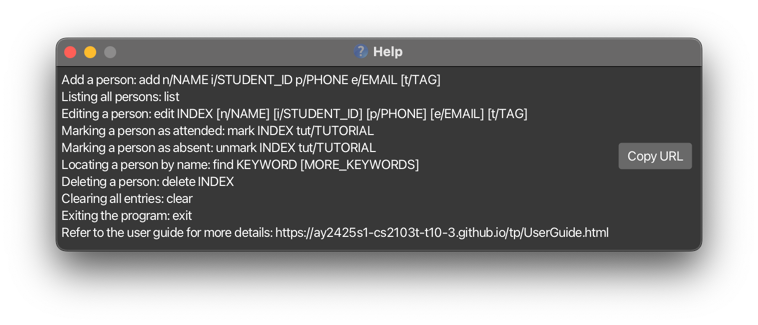
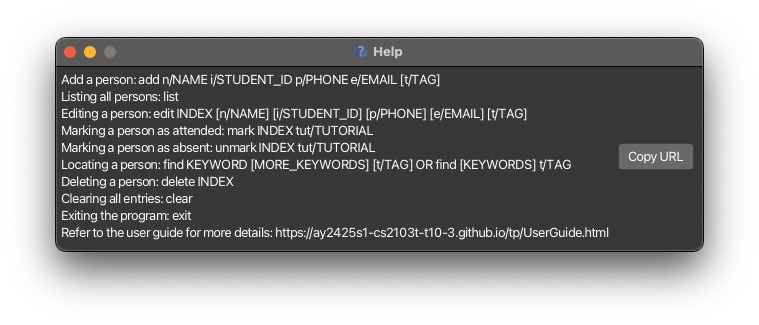
Update User Guide and Help Message

diff --git a/src/main/java/seedu/address/ui/HelpWindow.java b/src/main/java/seedu/address/ui/HelpWindow.java
@@ -15,7 +15,6 @@ import seedu.address.commons.core.LogsCenter;
  */
 public class HelpWindow extends UiPart<Stage> {
 
-    // TODO: Remove hardcoding of message, find a way to pass in the help
     public static final String USERGUIDE_URL = "https://ay2425s1-cs2103t-t10-3.github.io/tp/UserGuide.html";
     public static final String HELP_MESSAGE =
             "Add a person: add n/NAME i/STUDENT_ID p/PHONE e/EMAIL [t/TAG]\n"
@@ -23,7 +22,7 @@ public class HelpWindow extends UiPart<Stage> {
             + "Editing a person: edit INDEX [n/NAME] [i/STUDENT_ID] [p/PHONE] [e/EMAIL] [t/TAG]\n"
             + "Marking a person as attended: mark INDEX tut/TUTORIAL\n"
             + "Marking a person as absent: unmark INDEX tut/TUTORIAL\n"
-            + "Locating a person by name: find KEYWORD [MORE_KEYWORDS]\n"
+            + "Locating a person: find KEYWORD [MORE_KEYWORDS] [t/TAG] OR find [KEYWORDS] t/TAG\n"
             + "Deleting a person: delete INDEX\n"
             + "Clearing all entries: clear\n"
             + "Exiting the program: exit\n"

diff --git a/docs/UserGuide.md b/docs/UserGuide.md
@@ -191,23 +191,26 @@ Examples:
 
 ### Locating persons by name : `find`
 
-Finds persons whose names contain any of the given keywords.
+Finds persons whose names or tags contain any of the given keywords.
 
-Format: `find KEYWORD [MORE_KEYWORDS]`
+Format: `find KEYWORD [MORE_KEYWORDS] [t/TAG]` or `find [KEYWORDS] t/TAG`
 
+- At least one field of `KEYWORD` or `TAG` is required for the search.
 - The search is case-insensitive. e.g `hans` will match `Hans`
 - The order of the keywords does not matter. e.g. `Hans Bo` will match `Bo Hans`
-- Only the name is searched.
+- The name as well as the tags will be searched.
 - Persons matching at least one keyword will be returned (i.e. `OR` search).
   e.g. `Hans Bo` will return `Hans Gruber`, `Bo Yang`
+- Searching for both name and tags will return all results that have either the name or the respective tag, which is basically the union of both groups.
 
 Examples:
 
 - `find John` returns `john` and `John Doe`
 - `find an` returns `armin` and `brian`
-- `find alex david` returns `Alex Yeoh`, `David Li`<br>
+- `find alex david` returns `Alex Yeoh`, `David Li`<br> 
   ![result for 'find alex david'](images/findAlexDavidResult.png)
-
+- `find alex t/colleagues` returns `Alex Yeoh` and all contacts marked with tag `colleagues`<br>
+  ![result for 'find alex t/colleagues'](images/findAlexColleaguesResult.png)
 ### Sorting persons : `sort`
 
 Sorts the displayed list of persons by either name, student id or tutorial attendance.
